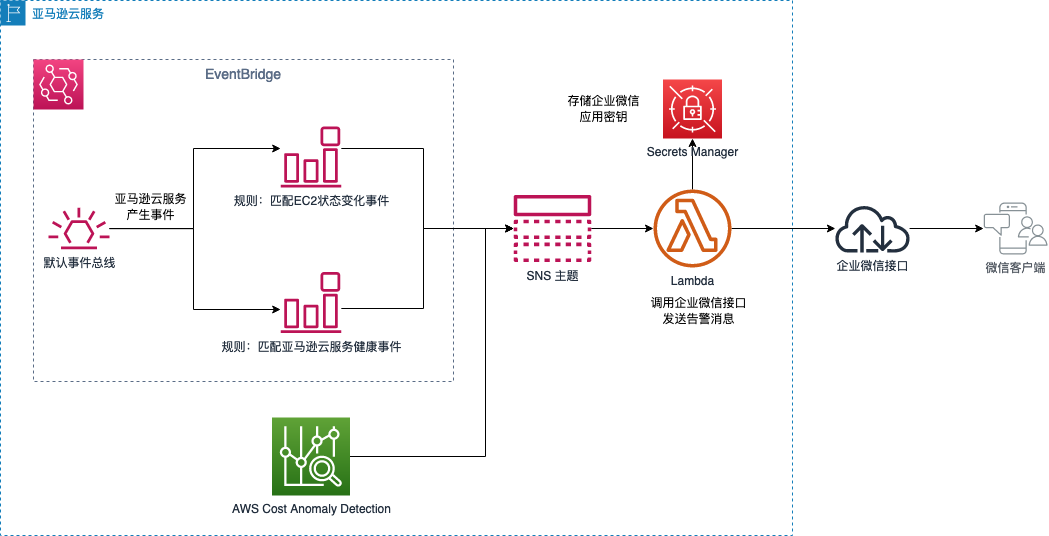
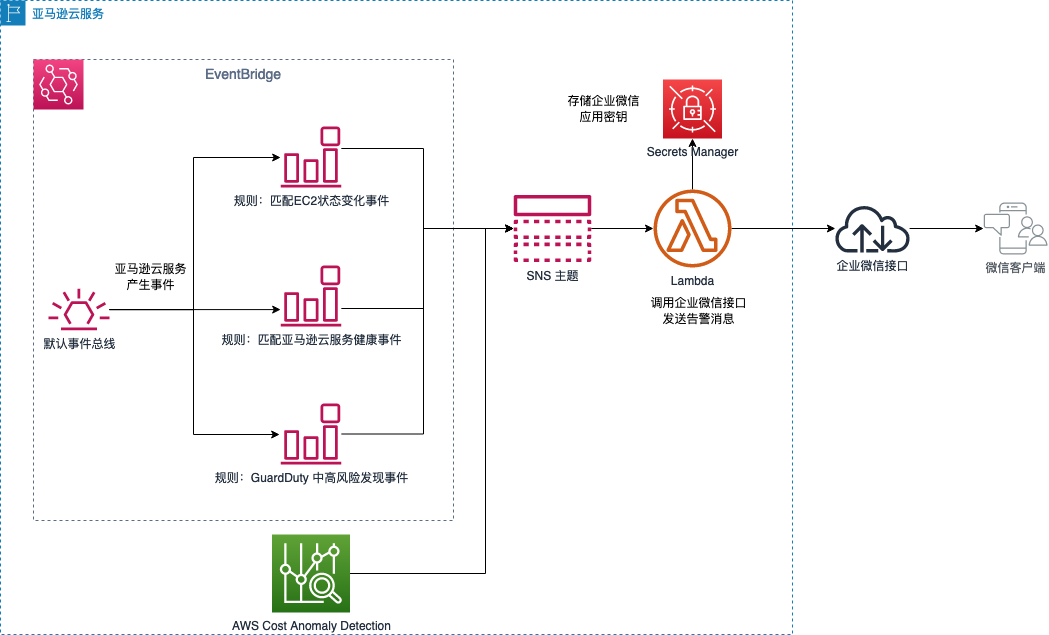
Add integration with Amazon GuardDuty.

diff --git a/README.md b/README.md
@@ -28,6 +28,9 @@
 2022-10-16:
 添加 AWS Cost Anomaly Detection 集成。
 
+2022-11-2:
+添加 Amazon GuardDuty 集成。
+
 ## 附录
 
 [AWS博客：基于AWS Serverless 一键启用微信/钉钉告警通知
